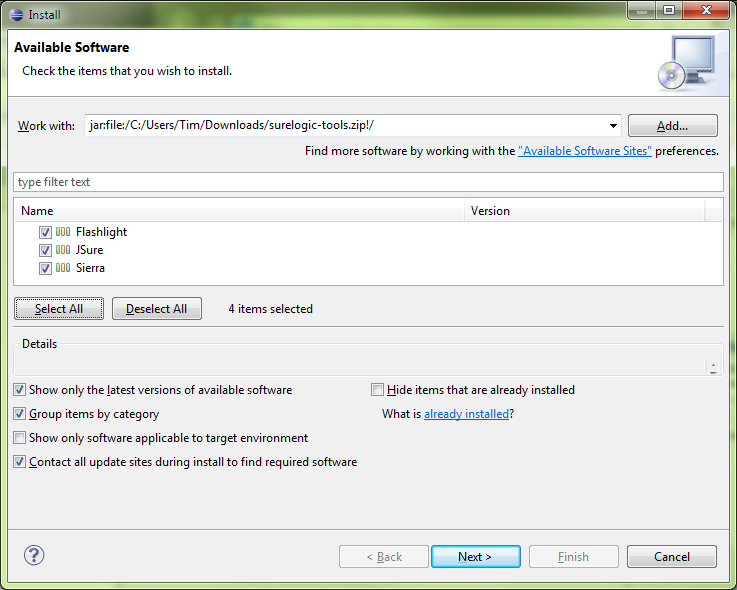
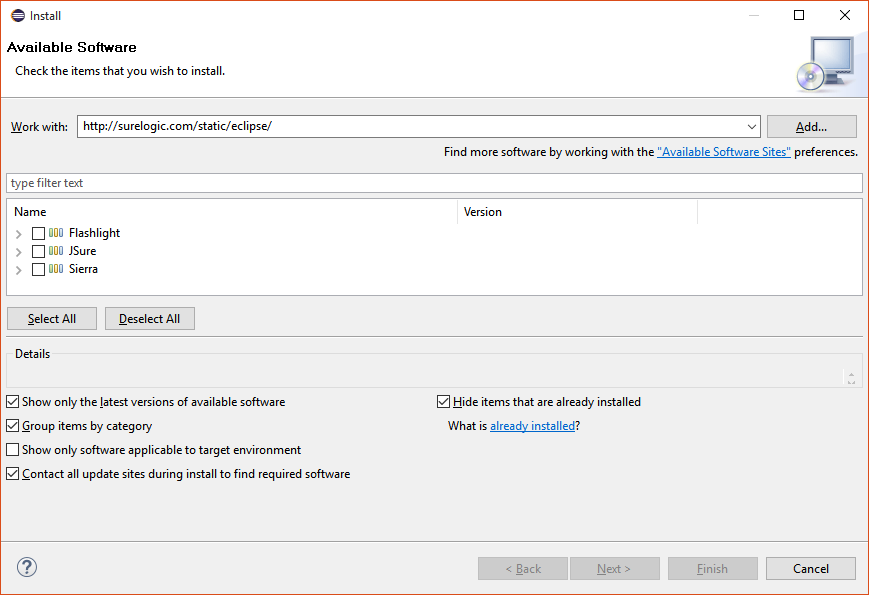
Updates to install instructions page

Changed region(s): [[0.0, 0.0, 1.0, 1.0], [0.4993, 0.6407, 0.7802, 0.7322]]

diff --git a/surelogic-update-site/install.html b/surelogic-update-site/install.html
@@ -42,25 +42,26 @@
     <h2 class="title">Downloading and Installing the Eclipse-based SureLogic Tools</h2>
     
     <p>The current SureLogic tool release is version [[VER]]. You must be running
-    Eclipse on a Java 7 (or higher) VM (see below).</p>
+    Eclipse on a Java 7 (or higher) VM (more details below).</p>
     
     <p> It should take no more than 5 minutes for you to get up and
     running if you already have a working Eclipse installed on your
     machine. If you do not have Eclipse please go to the <a
     href="http://www.eclipse.org/downloads/">Eclipse Download Site</a>
     and download and install a copy. If you have any problems getting
-    up and running, please call Tim Halloran at (412) 722-3338 for
-    help. We want you to have a good experience with our product and
+    our tools up and running, please email
+    <a href="mailto:support@surelogic.com">support@surelogic.com</a> or
+    file a report in our <a href="http://surelogic.com/bugzilla/index.cgi">Bugzilla</a>.
+    We want you to have a good experience with our product and
     are ready to help. We realize that it can be difficult to navigate the
-    Eclipse plug-in installation and management user interface. Feel
-    free to also file any problems or questions on Bugzilla at our website.</p>
+    Eclipse plug-in installation and management user interface.</p>
 
     <p><a class="btn" href="./[[ZIP]]">Click to download an archived update site
     for SureLogic tools version [[VER]] you can load into Eclipse</a></p>
     
     <p class="cen">or</p>
     
-    <p><a class="btn" href="./install.html">point your Eclipse at the SureLogic
+    <p><a class="btn">point your Eclipse at the SureLogic
     update site:</a></p>
 
     <p class="cencode">[[UPS]]</p>
@@ -69,8 +70,13 @@
     archived Eclipse update site you can use to install
     the tools in your Eclipse IDE. The release is installed (and
     uninstalled) via the normal Eclipse mechanisms. Detailed
-    instructions are given below. The following tools are
-    available as Eclipse features:</p>
+    instructions are given below.</p>
+    
+    <h3 class="title">The Eclipse-based SureLogic Tools</h3>
+    
+    <p>When you install the tools into your Eclipse you can choose which to
+    install. This section describes each feature to help you decide what to
+    install. The following tools are available as Eclipse features:</p>
 
     <dl>
       <dt><em>Flashlight Client</em></dt>
@@ -105,6 +111,8 @@
       this feature is recommended. The  normal <em>Sierra Client</em> is required for this
       feature to install successfully.</dd>
     </dl>
+    
+    <h3 class="title">Getting Ready to Install</h3>
 
     <p>The tools may be installed and used in versions 3.7.2 and
     higher of Eclipse (higher being recommend).
@@ -150,26 +158,38 @@
 512m</pre>
 
     <p>Most modern Eclipse releases set this to 265 MB which might be okay for most uses.
-    The best solution is to use a Java 8 VM (in which Oracle removed Perm Gen altogether).</p>
+    The best solution is to use a Java 8 VM in which Oracle
+    <a href="http://openjdk.java.net/jeps/122">removed Perm Gen</a>&mdash;so you
+    don't have to worry about it.</p>
+    
+    <h3 class="title">Installation Step By Step</h3>
     
     <ol>
       <li>
-	  <p>We find that installing the tools, especially for the first time, is
-	  better done from an archived update site, which you can find <a
-	  href="./[[ZIP]]">here</a> (the same file downloaded by the above button). This archive
-	  contains the Sierra, JSure, and Flashlight features.  If you are an
-	  advanced Eclipse user, you can choose to use our update site, located at
-	  <tt>[[UPS]]</tt>, and skip to step 3.</p>
-      </li>
-
-      <li>
-	  <p>Select 'Help | Install New Software&hellip;' to open the 'Install'
-	  dialog.  Click the 'Add&hellip;' button in the upper-right of the
-	  dialog.  In the dialog that opens select the
-	  'Archive&hellip;' button and point the file selection dialog that
-	  appears to the to the SureLogic archived update site file downloaded
-	  in step 1, then press 'Open' followed by 'OK'.  The 'Install' dialog
-	  should appear as shown in the figure below.</p>
+	  <p>Select 'Help | Install New Software&hellip;' on the Eclipse main menu to open the 'Install'
+	  dialog.</p>
+	  <img src="./images/eclipse-menu.png" alt="Menu item to open the Install dialog in Eclipse" />
+	  <img src="./images/install-dialog.png" alt="Install dialog in Eclipse" />
+	  <p>At this point you have the option of installing using the archived update site or
+	  installing using the SureLogic web-based update site directly.</p> 
+	  
+	  <ol>
+	    <li>To install using the downloaded <a href="./[[ZIP]]">archived update site</a> file,
+	    click the 'Add&hellip;' button in the upper-right of the
+	    dialog.  In the dialog that opens select the
+	    'Archive&hellip;' button and point the file selection dialog that
+	    appears to the to the archived update site file you downloaded.
+	    Press 'Open' to choose the file, followed by 'OK' to return to the
+	    'Install' dialog.</li>
+	    <li>To install using the SureLogic update site, click the 'Add&hellip;'
+	    button in the upper-right of the dialog. Copy and paste the URL <tt>[[UPS]]</tt>
+	    into the 'Location:' text box. Press 'OK' to return to the 'Install' dialog.</li>
+	  </ol>
+	  </li>
+	  
+	  <li>
+	  <p>At this point, regardless of which installation method you choose, the dialog
+	  should list the SureLogic tool features as shown below.</p>
 
 	  <img src="./images/install-tools-in-eclipse.png" alt="Selecting features to install in Eclipse" />
 
@@ -197,10 +217,10 @@
 
       <img src="./images/install-license-menu.png" alt="Main menu choice to install your license" />
 
-      <p>In the dialog that appears, press the 'Install from File' if you saved your license in a file
+      <p>In the dialog that appears, press the 'Install from File' if you saved your license to a file
       or 'Install from Clipboard' if you copied the text of your license from an email, respectively.</p>
 
-      <img src="./images/install-license-dialog.png" alt="SureLogic license management dialog showing a license to use Flashlight has been installed" />
+      <img src="./images/install-license-dialog.png" alt="SureLogic license management dialog showing a license has been installed" />
 
       <p>Once your license is loaded it may need to be activated. If so,
       highlight your license in the list of licenses and
@@ -248,8 +268,7 @@
       <li>
       <p>To learn more about how to use the tools select 'Help |
       Help Contents' and open the Sierra, Flashlight, or JSure User
-      Guides. If you have installed JSure, you should also read the
-      JSure Annotation Guide. These guides contain tutorial and
+      Guides. These guides contain tutorial and
       reference information about how to use the tools
       effectively. You may also use the 'Save Documentation As...'
       menu item to save a copy of the documentation to your disk
@@ -278,13 +297,13 @@
     
       <tr><td>Flashlight</td>
           <td><a href="ant/flashlight-ant-[[SVER]].zip">flashlight-ant-[[SVER]].zip</a></td>
-          <td>&nbsp;</td></tr>
+          <td>Under Development</td></tr>
       <tr><td>JSure</td>
           <td><a href="ant/jsure-ant-[[SVER]].zip">jsure-ant-[[SVER]].zip</a></td>
-          <td>&nbsp;</td></tr>
+          <td>Under Development</td></tr>
       <tr><td>Sierra</td>
           <td><a href="ant/sierra-ant-[[SVER]].zip">sierra-ant-[[SVER]].zip</a></td>
-          <td>&nbsp;</td></tr>
+          <td>Under Development</td></tr>
     </table>
 
    <p>
